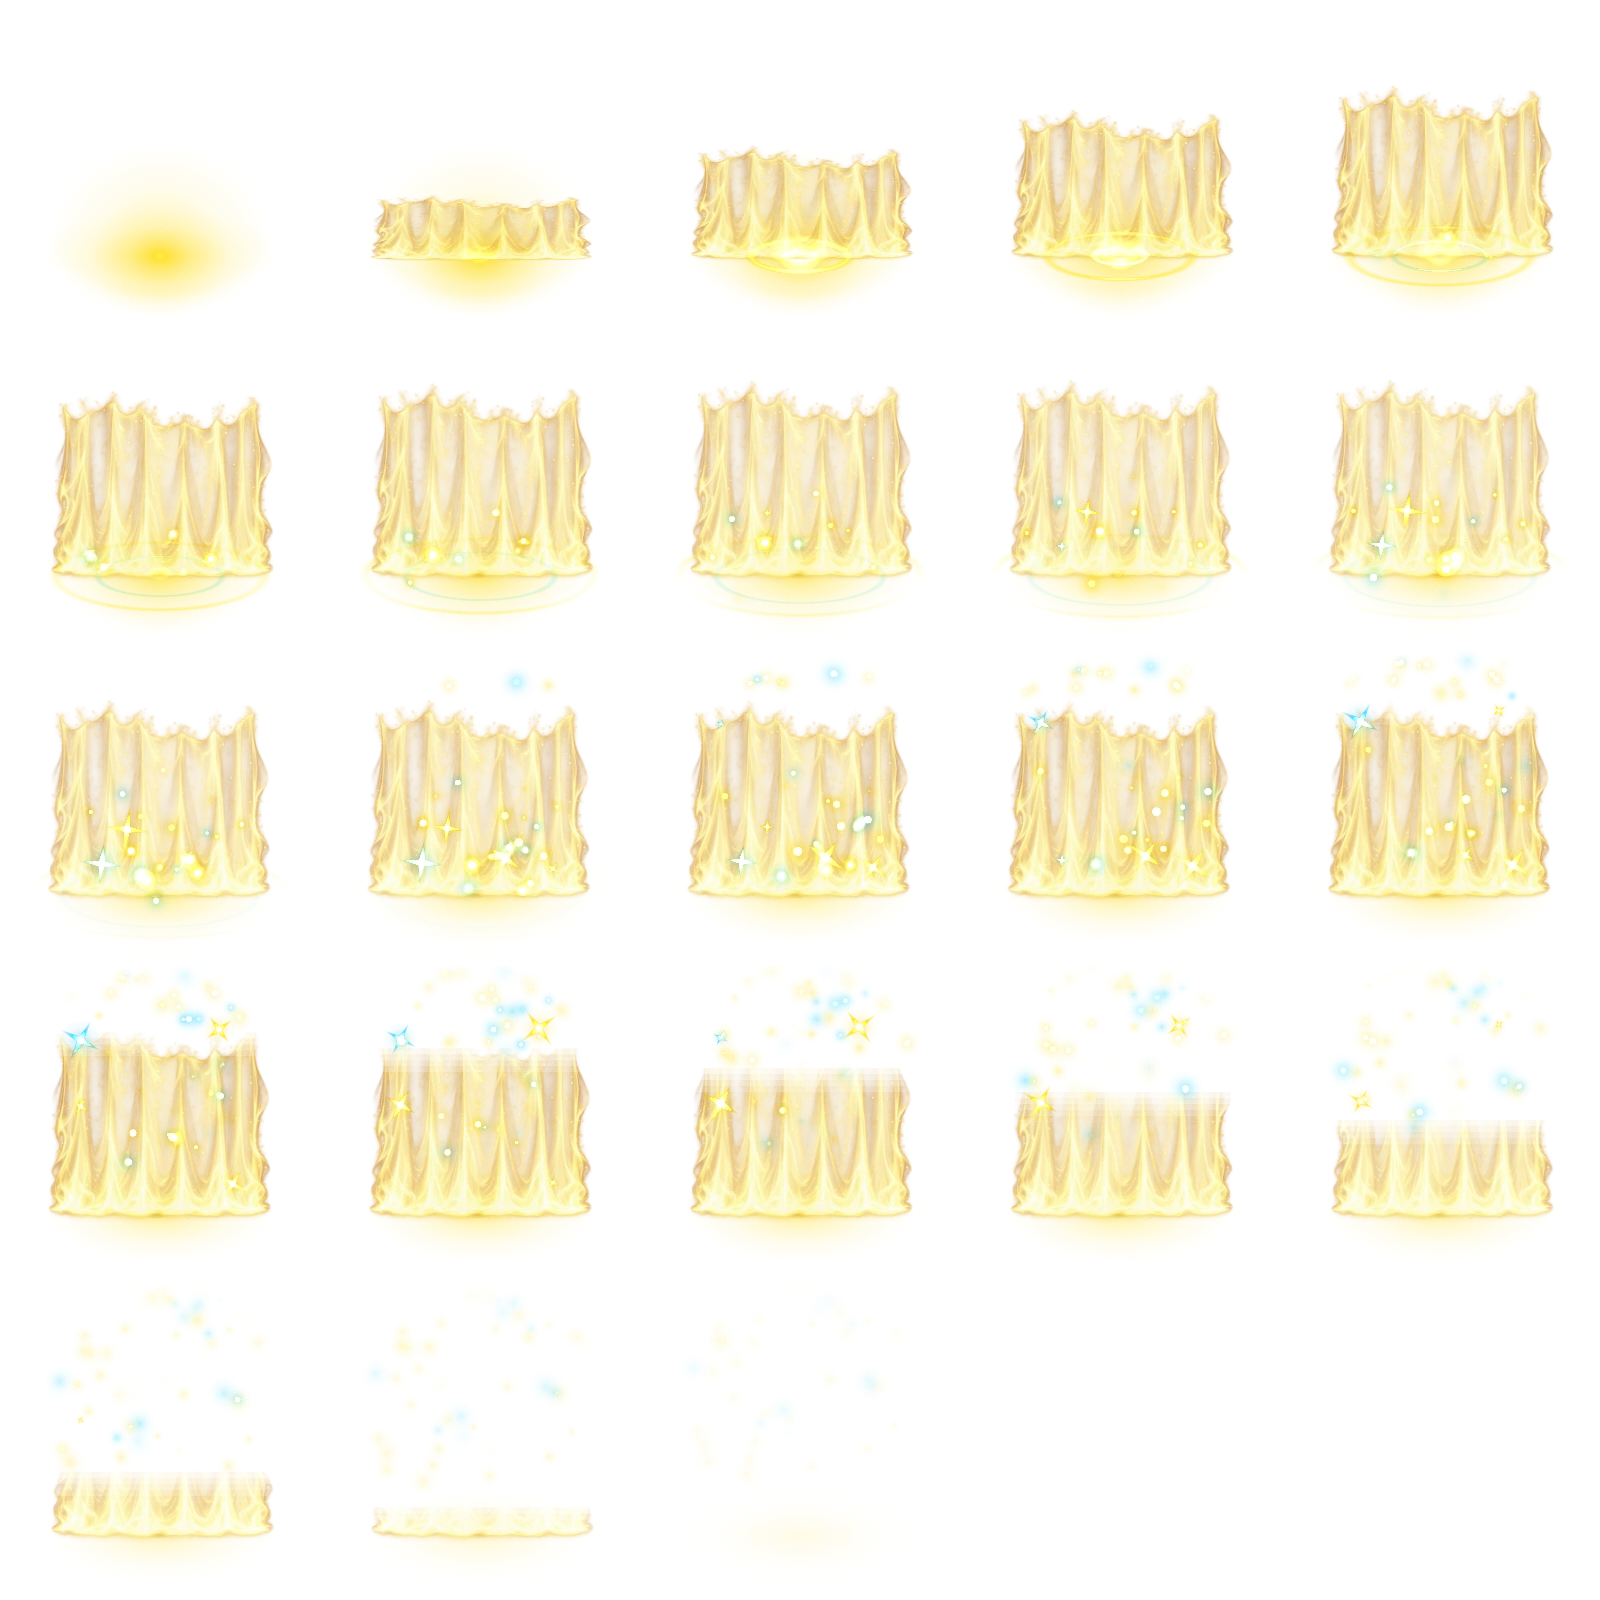
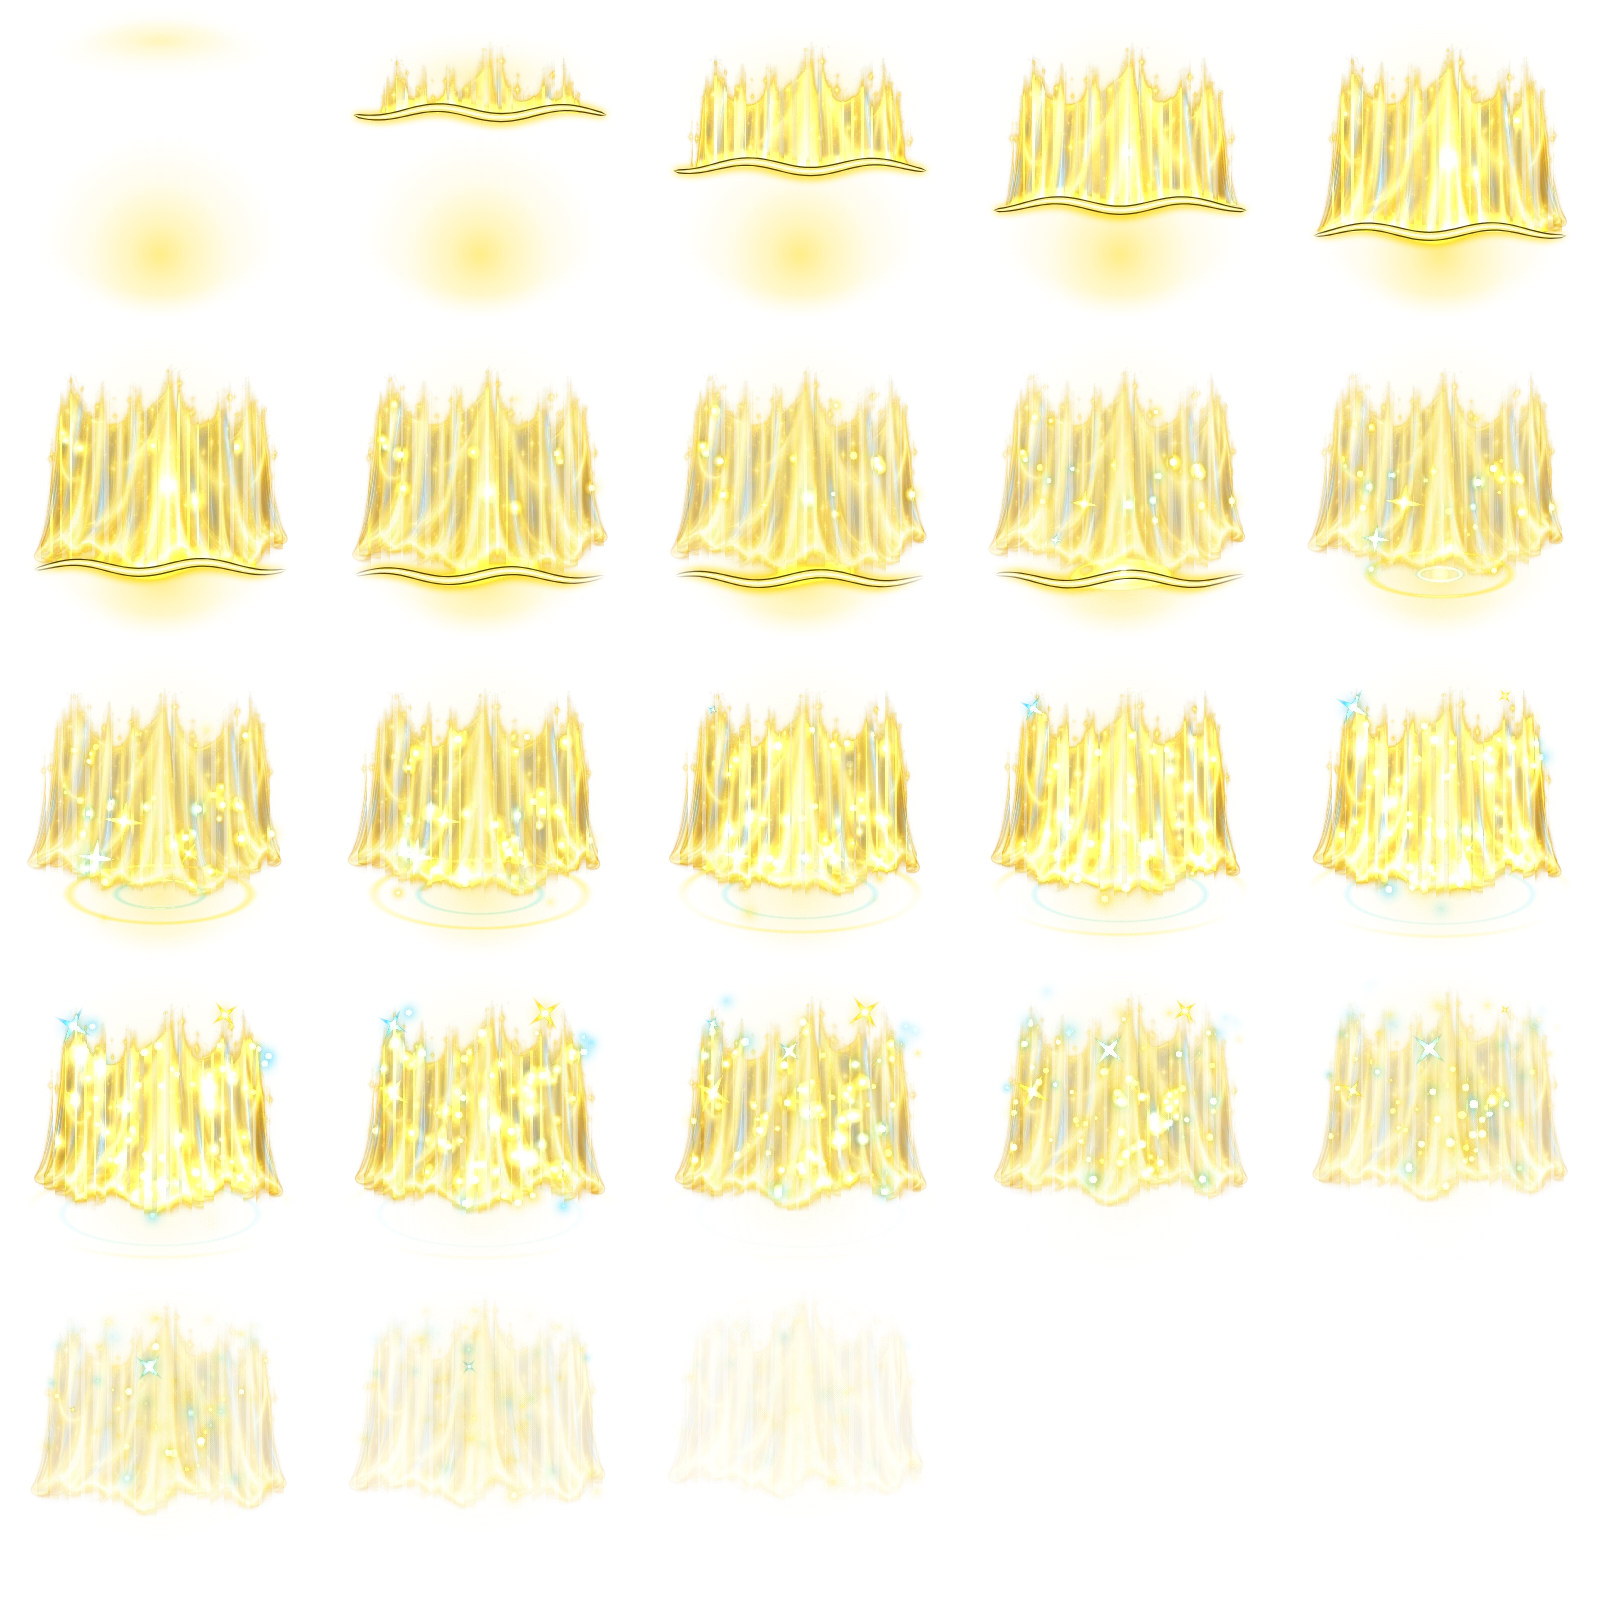
Warder: veil and judgment remade with new Codex art
Veil: a yellow aurora curtain (new Codex painting) drops from above the head
across the cell, each fold waving on its own (drawn as overlapping strips),
the glowing hem lands with a shock ring, dust streams down, then it lifts away
into sparkles. Judgment: a thick light pillar slams down and an eight-ray
burst (new Codex painting) blooms larger than the cell while spinning, with
yellow/sky-blue rays, dust and drops. Old veil and diamond art removed.

diff --git a/src/art/pxf/requests.md b/src/art/pxf/requests.md
@@ -99,8 +99,8 @@ Lim 「직업별 스킬별로 이펙트가 달라야 하는데 중복되는 게 
 | astro-polaris | 위에서 내려와 커졌다가 작은 별들로 터지는 큰 네 갈래 별 (Codex 북극성) | warder-seal | 머리 위에 엇갈려 그어지는 X자 인장 (Codex X자 인장) |
 |  |  | warder-barrier | 몸 앞을 둥글게 감싸는 얇은 빛 막과 흐르는 물결 결 (Codex 빛 막) |
 | warder-cleanse | 퐁 터져 둥근 빛 구슬로 퍼지는 빛 방울 (Codex 빛 방울 · 빛 구슬 터짐, 2026-10-19 둥글게) | warder-circle | 빛 점이 발밑에 그려 닫는 원 문양과 여섯 꽃잎 호 (Codex 원 문양) |
-| warder-guard | 가로 · 세로 빛 띠로 그려지는 지구본 같은 둥근 결계 (Codex 빛 띠 지구본) | warder-veil | 발밑에서 솟아오르는 주름진 빛 장막 (Codex 장막) |
-|  |  | warder-judgment | 몸 위에서 네 갈래 빛줄기로 풀려 오르는 마름모 인장 (Codex 마름모 인장) |
+| warder-guard | 가로 · 세로 빛 띠로 그려지는 지구본 같은 둥근 결계 (Codex 빛 띠 지구본) | warder-veil | 머리 위에서 펼쳐져 내려와 주름마다 물결치다 걷히는 빛 오로라 장막 (Codex 오로라 장막, 2026-10-19) |
+|  |  | warder-judgment | 하늘에서 내리꽂히는 빛기둥과 터져 퍼지는 여덟 갈래 빛살 (Codex 빛살, 2026-10-19) |
 
 같은 스킬이 이어서 회복할 때도 그 스킬 그림이 나온다: 찬가 · 고요한 숲은 정신 집중 동안 1초마다 파티 전원 칸에, 빛의 전이는 빛이 깃든 사람이 회복할 때마다 그 칸에 (예전엔 공통 「치유 빛」).
 
@@ -205,9 +205,9 @@ Lim 「직업별 스킬별로 이펙트가 달라야 하는데 중복되는 게 
 | wardCleanse 결계 정화 | warder-cleanse | 대상 칸 | **모양: 퐁 터져 둥근 빛 구슬로 퍼지는 빛 방울.** (2026-10-19 Lim 「사각형 각진것을 둥글게 다시 표현」: 예전 네모 유리판 · 유리 조각을 바꿈) 어두운 기운이 갇힌 노란 빛 방울이 몸을 감싸 흔들리며 금이 번지다 퐁 터지고, 둥근 충격파 고리 둘 · 둥근 빛 구슬 고리가 퍼지며 어두운 티끌이 노란 빛가루로 타 사라짐. 모서리 · 직선 · 물방울 · 거품 금지 (공통 해제 · 파티원 치유와 겹침). 18프레임, 맞는 순간 6 |
 | wardCircle 결계 원 | warder-circle | 범위 칸마다 | **모양: 네 모서리에 솟는 빛 말뚝.** 칸 네 모서리 (앞 둘 · 뒤 둘)에서 빛 말뚝이 차례로 솟고 그 사이 바닥이 네모로 은은히 빛남. 여러 칸 동시라 가볍게. 바닥 고리 · 원형 무늬 금지 (기원 · 공통 장판과 겹침). 20프레임, 맞는 순간 4 |
 | guardWard 수호 결계 | warder-guard | 대상 칸 | **모양: 몸 둘레를 도는 작은 네모 방패 셋.** 작은 네모 방패 셋이 몸 둘레를 납작한 타원으로 돌고, 처음에 가운데 네모 테두리가 한 번 번쩍임. 둥근 방패 · 거품 금지 (파티원 방어 · 성역과 겹침). 22프레임, 맞는 순간 3 |
-| lightVeil 빛의 장막 | warder-veil | 범위 칸마다 | **모양: 아래부터 층층이 쌓이는 가로 빛 띠 셋.** 가로로 긴 빛 띠 셋이 아래에서 위로 차례로 펼쳐져 쌓이고 사이로 빛 점이 천천히 떠오름. 위에서 내려오는 커튼 · 세로 주름 금지 (보스 정적과 겹침). 24프레임, 맞는 순간 5 |
+| lightVeil 빛의 장막 | warder-veil | 범위 칸마다 | **모양: 머리 위에서 펼쳐져 내려와 주름마다 물결치다 걷히는 빛 오로라 장막.** (2026-10-19 Lim 「장막 이미지가 어색하다」) 노란 빛 장막이 칸 폭으로 내려오며 세로 주름마다 따로 물결치고, 빛나는 밑단이 발밑에 닿을 때 충격파가 퍼지고, 빛가루가 흘러내리다 위로 걷히며 반짝이로 흩어짐. 24프레임, 맞는 순간 8 |
 | lightSpear 빛의 창 | warder-spear | 회복한 칸마다 (없으면 누른 칸) | **모양: 아래에서 위로 쏘아 올려지는 빛 창.** 발밑에서 뾰족한 상아빛 창이 위로 쏘아 올라가며 가는 꼬리를 남기고, 출발점에서 마름모 빛 조각이 튐. 세 방향 창끝 · 빛 기둥 금지 (파티원 공격 · 환생과 겹침). 16프레임, 맞는 순간 2 |
-| judgment 심판 (가운데) | warder-judgment | 회복한 인장 칸마다 | **모양: 손잡이 끝을 축으로 휘둘러 내리치는 빛 망치.** 오른쪽 위 손잡이 끝을 축으로 T자 망치가 위에서 크게 휘둘러 내려와 몸 앞을 내리치고, 맞는 순간 8갈래 빛이 터지며 네모 조각이 튐. 번개 · 쐐기 금지 (보스 쐐기와 겹침). 18프레임, 맞는 순간 5 |
+| judgment 심판 (가운데) | warder-judgment | 회복한 인장 칸마다 | **모양: 하늘에서 내리꽂히는 빛기둥과 터져 퍼지는 여덟 갈래 빛살.** (2026-10-19 Lim 「심판 이펙트도 다시 한번」) 굵은 노란 빛기둥이 칸으로 쾅 내리꽂히고 섬광 · 충격파와 함께 여덟 갈래 빛살이 칸보다 크게 터져 돌며 커지다 사라지고, 빛살 여덟이 뻗어 나가며 빛가루가 튀고 빛 방울이 쏟아짐. 공격 · 망치 모양 아님. 18프레임, 맞는 순간 4 |
 
 ## 보스 판 전체 공격 (Lim 2026-10-11 14:53 「장판은 그대로 놔두고, 광역 이펙트는 지금 이미지가 이상하다. 이펙트 공방으로 픽셀 크기를 늘려서 광역 이펙트를 한번 만들어보자」 · 14:56 「보스의 판 전체 공격 이펙트를 말한거다」 · 16:31 「크기는 괜찮은데 전체공격의 픽셀이 좀더 디테일 했으면 좋겠다」)
 
